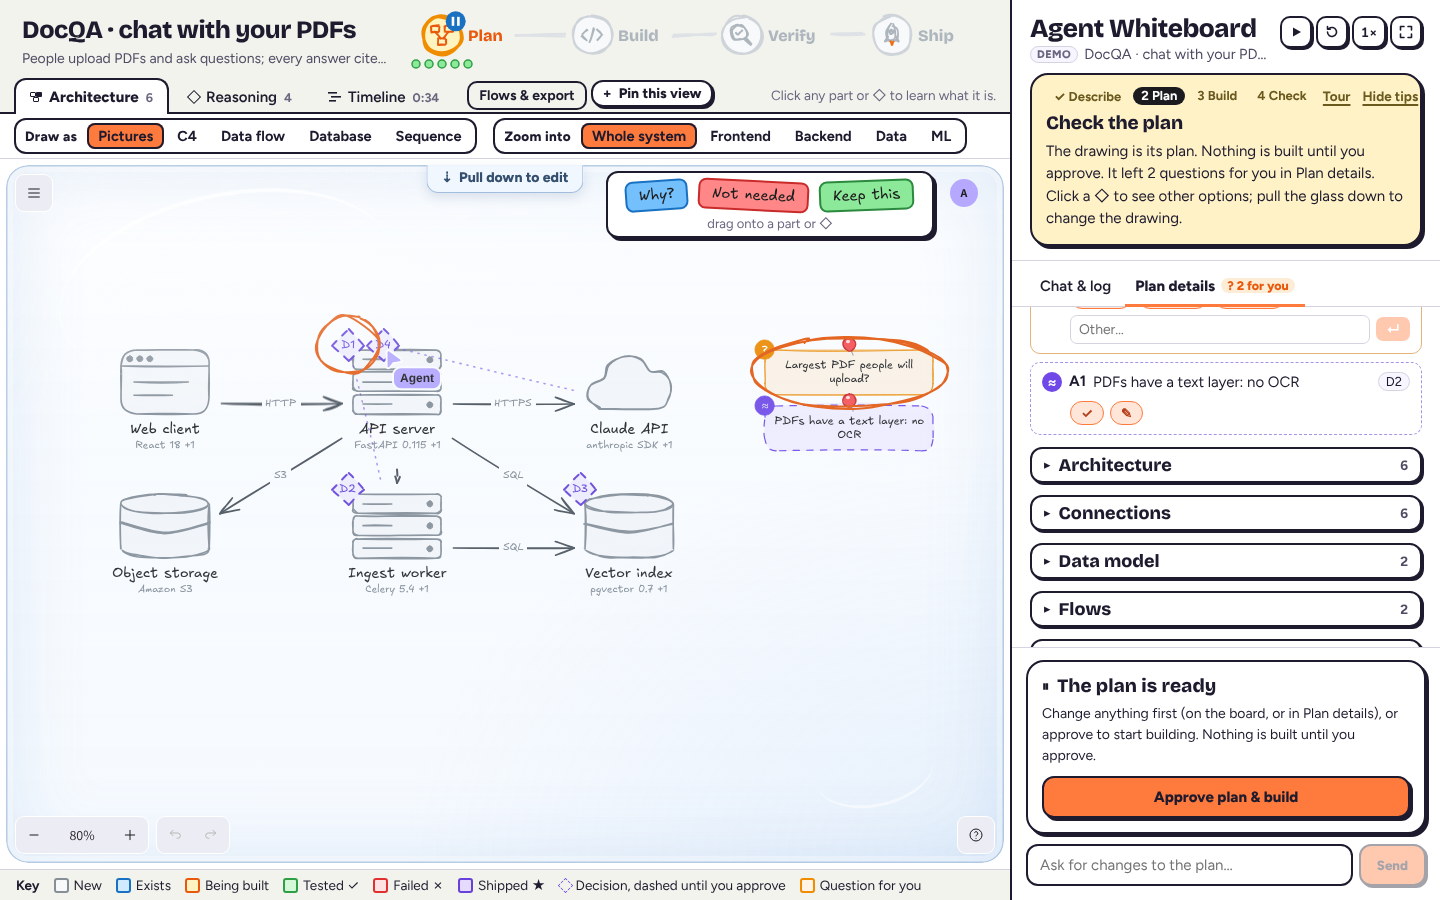
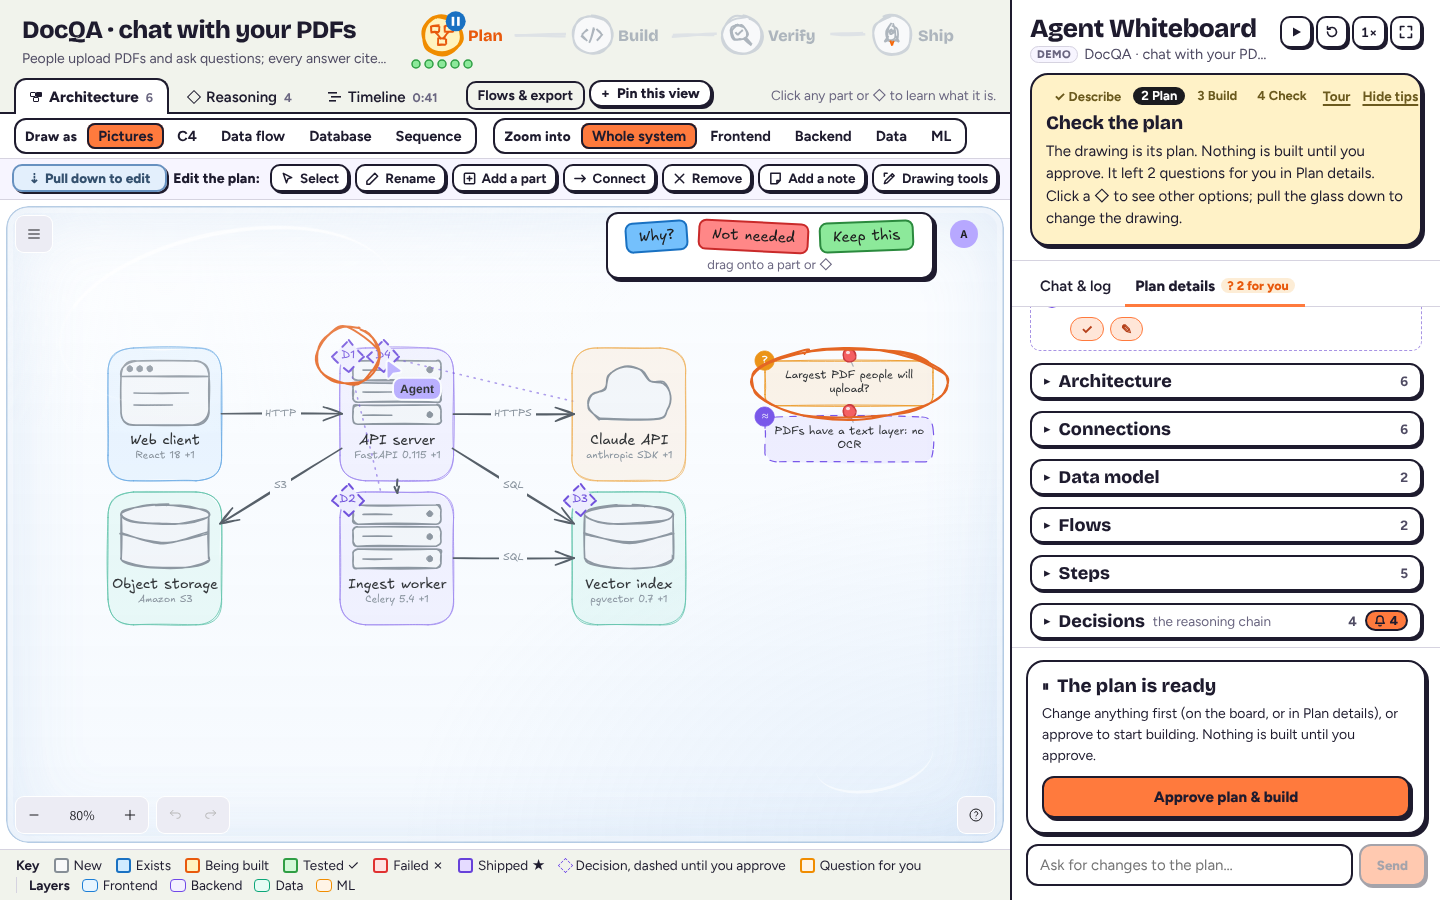
The glass switch stays put: one button, first in Edit the plan
Pull down to edit was a tab on the board while the glass was up, and
Glass back up was the last button of a bar that only appeared once it
was down, so the button jumped across the screen and the board dropped
40px each time. Now one fixed-width button, first in an Edit the plan
bar that shows whenever the plan is editable, flips between the two.
Any Edit the plan button pulls the glass down first, like Rename on a
card.

Claude-Session: https://claude.ai/code/session_01RFXApAP3jR29raC8Dwdwy4

diff --git a/src/App.jsx b/src/App.jsx
@@ -1970,7 +1970,7 @@ export default function App() {
   };
   useEffect(() => {
     if (!editable || !glassUp) return;
-    const onBoard = (t) => !!t?.closest?.(".canvas.arch") && !t.closest(".explain, .board-submit, .glass-handle, button, input, textarea, select");
+    const onBoard = (t) => !!t?.closest?.(".canvas.arch") && !t.closest(".explain, .board-submit, button, input, textarea, select");
     const typing = (t) => !!t?.closest?.("input, textarea, select, [contenteditable]");
     let down = false;
     const handlers = {
@@ -2699,39 +2699,48 @@ export default function App() {
             </div>
           </div>
         )}
-        {editable && !glassUp && (
+        {editable && (
+          // Always there while the plan is editable, glass up or down, so neither the glass switch
+          // (first, a fixed width) nor the board below moves when you flip it. A tool pressed with
+          // the glass up pulls it down first, like Rename on a card.
           <div className="edit-bar" role="toolbar" aria-label="Edit the plan">
+            <button
+              className={`glass-toggle ${glassUp ? "up" : "down"}`}
+              data-tour="glass"
+              aria-pressed={!glassUp}
+              onClick={glassUp ? lowerGlass : raiseGlass}
+              title={glassUp ? "Pull the glass down to move, rename, remove or add things, then Submit" : "Back to looking: your changes stay in the list until you Submit"}
+            >
+              <span aria-hidden="true">{glassUp ? "⇣" : "⇡"}</span> {glassUp ? "Pull down to edit" : "Glass back up"}
+            </button>
             <span className="eb-label">Edit the plan:</span>
-            <button onClick={() => useTool("selection", null)} title="Select, move and double-click things on the board">
+            <button onClick={() => (lowerGlass(), useTool("selection", null))} title="Select, move and double-click things on the board">
               <ToolIcon name="select" />
               Select
             </button>
-            <button onClick={toolRename} title="Rename the selected part (or double-click any name)">
+            <button onClick={() => (lowerGlass(), toolRename())} title="Rename the selected part (or double-click any name)">
               <ToolIcon name="rename" />
               Rename
             </button>
-            <button onClick={() => useTool("rectangle", "Draw a box on the board, then type its name.")} title="Ask for a new part: draw a box and name it">
+            <button onClick={() => (lowerGlass(), useTool("rectangle", "Draw a box on the board, then type its name."))} title="Ask for a new part: draw a box and name it">
               <ToolIcon name="add" />
               Add a part
             </button>
-            <button onClick={() => useTool("arrow", "Drag from one part to another.")} title="Ask for a new connection: draw an arrow between two parts">
+            <button onClick={() => (lowerGlass(), useTool("arrow", "Drag from one part to another."))} title="Ask for a new connection: draw an arrow between two parts">
               <ToolIcon name="connect" />
               Connect
             </button>
-            <button onClick={toolRemove} title="Remove the selected part or connection, or reject the selected ◇ decision">
+            <button onClick={() => (lowerGlass(), toolRemove())} title="Remove the selected part or connection, or reject the selected ◇ decision">
               <ToolIcon name="remove" />
               Remove
             </button>
-            <button onClick={() => useTool("text", "Click an empty spot and type a note, like “English PDFs only”.")} title="Add a note that narrows what it builds">
+            <button onClick={() => (lowerGlass(), useTool("text", "Click an empty spot and type a note, like “English PDFs only”."))} title="Add a note that narrows what it builds">
               <ToolIcon name="note" />
               Add a note
             </button>
-            <button className={`eb-tools ${tools ? "on" : ""}`} aria-pressed={tools} onClick={toggleTools} title="Show or hide Excalidraw's full drawing tools">
+            <button className={`eb-tools ${tools ? "on" : ""}`} aria-pressed={tools} onClick={() => (tools || lowerGlass(), toggleTools())} title="Show or hide Excalidraw's full drawing tools">
               <ToolIcon name="tools" />
               Drawing tools
-            </button>
-            <button className="gb-raise" onClick={raiseGlass} title="Back to looking: your changes stay in the list until you Submit">
-              <span aria-hidden="true">⇡</span> Glass back up
             </button>
           </div>
         )}
@@ -2748,11 +2757,6 @@ export default function App() {
               </div>
             )}
             {editable && <StickerTray onDropped={lowerGlass} />}
-            {editable && glassUp && (
-              <button className="glass-handle" data-tour="glass" onClick={lowerGlass} title="Pull the glass down to move, rename, remove or add things, then Submit">
-                <span aria-hidden="true">⇣</span> Pull down to edit
-              </button>
-            )}
             {toolHint && editable && (
               <p className="tool-hint" role="status">
                 {toolHint}

diff --git a/src/styles.css b/src/styles.css
@@ -2513,41 +2513,28 @@ button:focus-visible {
 .app[data-theme="dark"] .glass::after {
   opacity: 0.3;
 }
-.glass-handle {
-  position: absolute;
-  top: 6px;
-  left: 50%;
-  z-index: 5;
-  transform: translateX(-50%);
-  display: inline-flex;
-  align-items: center;
-  gap: 6px;
-  padding: 4px 14px 6px;
-  border: 1.5px solid rgba(120, 160, 205, 0.65);
-  border-top: 0;
-  border-radius: 0 0 12px 12px;
-  background: rgba(240, 247, 255, 0.94);
-  color: #34506e;
-  font: inherit;
-  font-size: 14px;
-  font-weight: 800;
-  cursor: pointer;
-  box-shadow: 0 4px 12px rgba(60, 90, 130, 0.15);
-}
-.glass-handle:hover {
-  background: #ffffff;
-  color: var(--accent-ink);
-}
-.app[data-theme="dark"] .glass-handle {
-  background: rgba(43, 50, 66, 0.94);
-  color: #c5d6f0;
-}
 @media (prefers-reduced-motion: reduce) {
   .glass {
     transition: none;
   }
 }
-.edit-bar .gb-raise {
+/* The glass switch: first in Edit the plan, one width for both labels, so it stays put.
+   Tinted like the glass while it's up; dashed once it's down (the glass is out of the way). */
+.edit-bar .glass-toggle {
+  justify-content: center;
+  min-width: 11.5em;
+  font-weight: 800;
+}
+.edit-bar .glass-toggle.up {
+  border-color: rgba(90, 135, 185, 0.9);
+  background: rgba(225, 238, 252, 0.95);
+  color: #34506e;
+}
+.app[data-theme="dark"] .edit-bar .glass-toggle.up {
+  background: rgba(55, 70, 95, 0.95);
+  color: #c5d6f0;
+}
+.edit-bar .glass-toggle.down {
   border-style: dashed;
 }
 

diff --git a/HANDOFF.md b/HANDOFF.md
@@ -272,7 +272,7 @@ The scripted demo as a lesson: it stops at each step until the person has done i
 - **What a layer shows** (`insideOf(model, layer)` in views.js, pure and tested): a component of the layer opens whole (its tables, then its parts; with none, its `api` entries as derived parts); a component of another layer opens *partially* when some of its parts carry that layer (`part.layer`), which is how ML gathers chunk/embed from a backend worker and retrieve/prompt from the API. Links: every part's links, plus model edges no part link already covers (landing on the route the edge's contract names, e.g. "POST /ask {…}" → the POST /ask part). A link is drawn only if one end is a part shown here or a component opened whole, so a partial frame's other traffic stays off the view. Linked components outside the layer are `stubs`.
 - **Drawing** (`drawInside` in diagrams.js): frames placed on the board's own grid (each used column as wide as its widest frame, each row as tall as its tallest), parts stacked inside (tables drawn as in ER, parts tinted by their layer: `LAYER_TINT`), stubs grey at their cells. Arrows: between components out of the facing sides (stacked in one column: out of both right sides and down a lane, so nothing crosses a part); inside a component straight down to the next part with the words beside it (a bound label hides a short arrow), or along the left edge to one further away; several on one side spread out. `Board.drawDiagram("inside", layer)` drew it on the diagram canvas, like ER and Sequence; since 4.15 only a view pinned beside the board ("+ Pin this view" while a layer is open) still draws it, and Mermaid export still uses it. Mermaid: `toInsideMermaid` (a subgraph per component, stubs as rounded nodes).
 - **Look inside** on a part's explain card opens its layer.
-- **Glass** (App): `glassUp` (default true) while `editable`. Window capture listeners (only while up): a drag that starts on the board never delivers its pointermoves (so a click still selects and explains, but nothing moves), real double-clicks don't open text editing (renameOnBoard's synthetic one is `isTrusted: false` and gets through), Delete/Backspace/arrows/Enter and ⌘/Ctrl+V X Z Y D don't reach the board, paste is dropped. `lowerGlass` from the handle (`data-tour="glass"`) or Use this / Rename / Remove on a card; `sendEdits` and `approve` raise it; **Glass back up** raises it without sending. The look is CSS only (`.glass`: a clip-path wipe down when pulled, tinted gradients, an inset rim, two glints).
+- **Glass** (App): `glassUp` (default true) while `editable`. Window capture listeners (only while up): a drag that starts on the board never delivers its pointermoves (so a click still selects and explains, but nothing moves), real double-clicks don't open text editing (renameOnBoard's synthetic one is `isTrusted: false` and gets through), Delete/Backspace/arrows/Enter and ⌘/Ctrl+V X Z Y D don't reach the board, paste is dropped. One switch (`.glass-toggle`, `data-tour="glass"`) flips it: the first button in Edit the plan, which shows whenever the plan is editable, glass up or down, with one width for both labels (**Pull down to edit** / **Glass back up**), so neither it nor the board moves when it flips (it used to be a tab on the board while up and the last button of a bar that only showed while down: the user saw it jump). Every Edit the plan button, and Use this / Rename / Remove on a card, `lowerGlass` first; `sendEdits` and `approve` raise it. The look is CSS only (`.glass`: a clip-path wipe down when pulled, tinted gradients, an inset rim, two glints).
 - **Demo prose:** one short line per step. The review's checked claims are kept on purpose: "All 42 unit tests pass", "41 times out of 50", "47 of 50 found", and the false "I documented the setup in `README.md`".
 - **Tour:** a `views` step after the Timeline (rings the Architecture tab, then the bar, with the board lit; waits for Next so you can try a few); the steer step rings only Use this (the glass and Stickers aren't in the tour any more: one ask per step). The user wants copy short: keep tour cards, hints and docs to a line or two.
 

diff --git a/README.md b/README.md
@@ -22,8 +22,8 @@ The app walks a newcomer through a run without hiding anything. **Hide tips** tu
 
 - **Coach.** A yellow card at the top of the panel says which step you're on (Describe → Plan → Build → Check) and what to do now, in a sentence or two.
 - **Tips on the board.** The first time a plan waits for you, orange circles ring its first decision and its first open question; the coach card says what to do with them, so there's one ask at a time. Click one to dismiss them. They're never exported or sent to the agent.
-- **Glass.** The board sits behind glass: clicks explain, nothing moves. **Pull down to edit** shows Edit the plan; **Submit** sends your changes and puts the glass back. Use this, Rename and Remove pull it down for you.
-- **Edit the plan.** With the glass down, a toolbar with words above the board: Select, Rename, Add a part, Connect, Remove, Add a note. Each picks the matching Excalidraw tool and says what to do next; the gestures (double-click, Delete, drawing) still work. Excalidraw's full toolbar is behind **Drawing tools**.
+- **Glass.** The board sits behind glass: clicks explain, nothing moves. **Pull down to edit** (first in Edit the plan, above the board) lowers it and becomes **Glass back up**, in the same spot; **Submit** sends your changes and puts the glass back. Any Edit the plan button, and Use this, Rename and Remove on a card, pull it down for you.
+- **Edit the plan.** A toolbar with words above the board: Select, Rename, Add a part, Connect, Remove, Add a note. Each picks the matching Excalidraw tool and says what to do next; the gestures (double-click, Delete, drawing) still work. Excalidraw's full toolbar is behind **Drawing tools**.
 - **Click to explain.** Select a part, a ◇, an arrow or a question and a card says what it is in plain words (what a service is, its status, routes, files, decisions, connections), with its actions as buttons: Rename, Remove, Ask about it, See the code; for a decision, **Use this** on each option, Ask why and Reject it; for a question, its answers.
 - **Plain words.** Symbols come with a word: receipts read "✓ checked", "✗ not true", "? can't tell"; the panel's tabs are **Chat & log** and **Plan details**, with counts like "2 for you"; a key under the Pictures board says what the colors mean; a command prompt says what the command is for and why you're asked.
 

diff --git a/docs/TUTORIAL.md b/docs/TUTORIAL.md
@@ -104,11 +104,11 @@ You don't have to type to change its mind. **Edit the board**, and your changes 
 
 ### Pull the glass down
 
-The board sits **behind glass**. You can click anything to learn what it is, but nothing moves by accident. To change the plan, press **Pull down to edit** at the top of the board: the glass slides away and **Edit the plan** appears. **Submit** sends your changes and puts the glass back. **Glass back up** puts it back without sending.
+The board sits **behind glass**. You can click anything to learn what it is, but nothing moves by accident. To change the plan, press **Pull down to edit**, the first button in **Edit the plan** above the board: the glass slides away and the same button turns into **Glass back up**, which puts it back without sending. **Submit** sends your changes and puts the glass back too.
 
-![The board behind glass, with the Pull down to edit tab](../screenshots/glass/1-behind-glass.png)
+![The board behind glass, with Pull down to edit at the left of Edit the plan](../screenshots/glass/1-behind-glass.png)
 
-Buttons on a card that change the plan (**Use this**, **Rename**, **Remove**) pull the glass down for you.
+Buttons that change the plan (**Use this**, **Rename**, **Remove** on a card, or any **Edit the plan** button) pull the glass down for you.
 
 ### Pick another option for a decision
 
@@ -118,7 +118,7 @@ Click a ◇, then press **Use this** next to one of the other options. Or drag o
 
 ### Use the Edit the plan toolbar
 
-With the glass down, **Edit the plan** above the board has buttons with words:
+**Edit the plan** above the board has buttons with words:
 
 | Button | What it does |
 | --- | --- |
